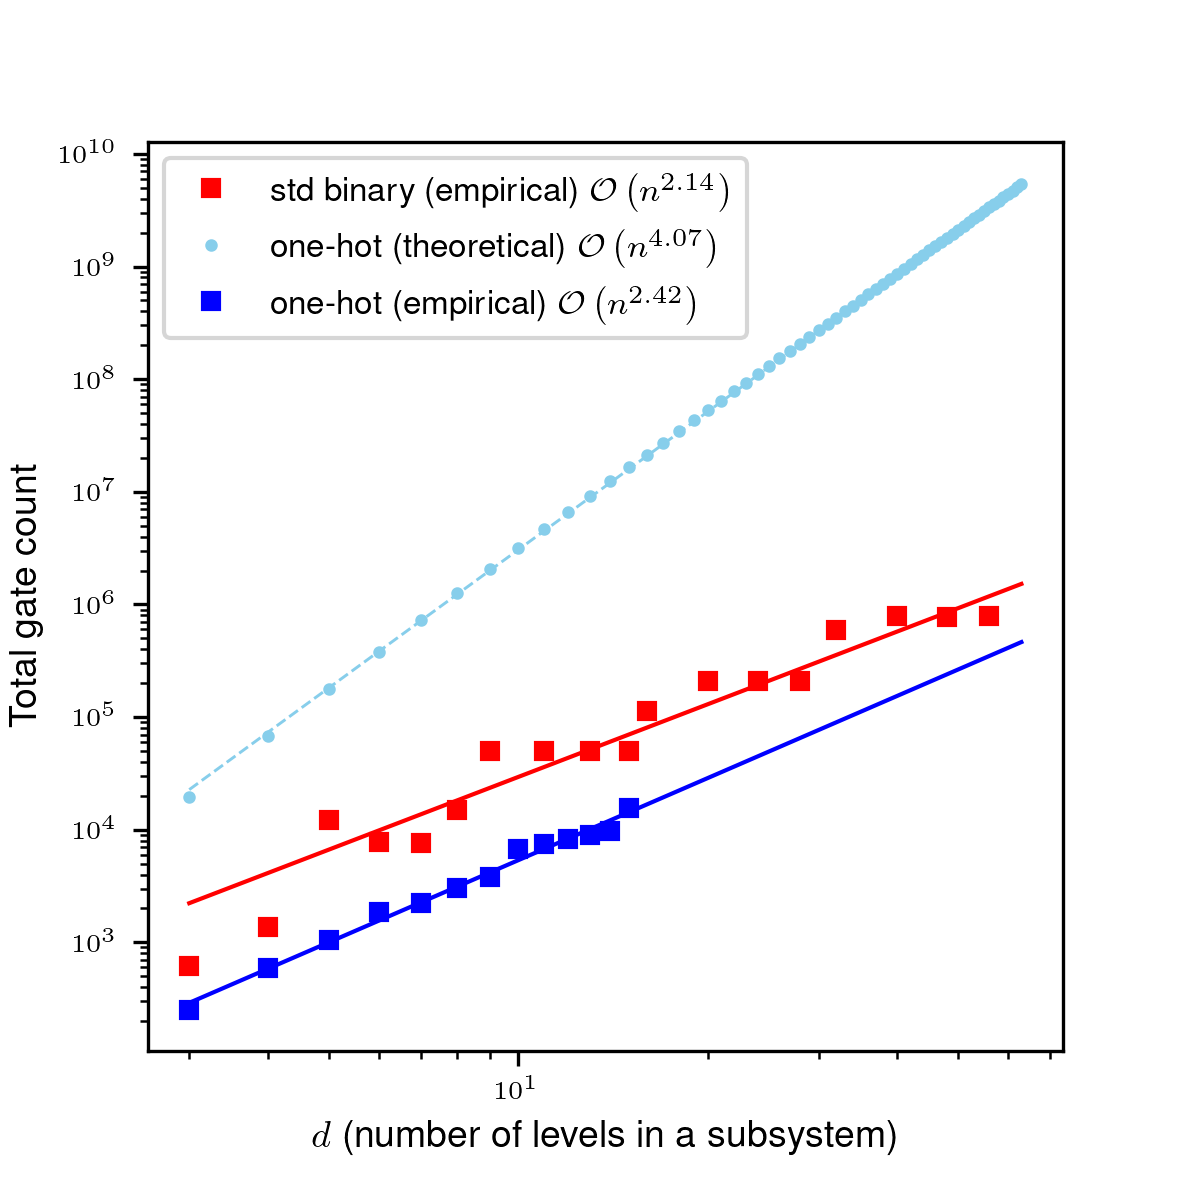
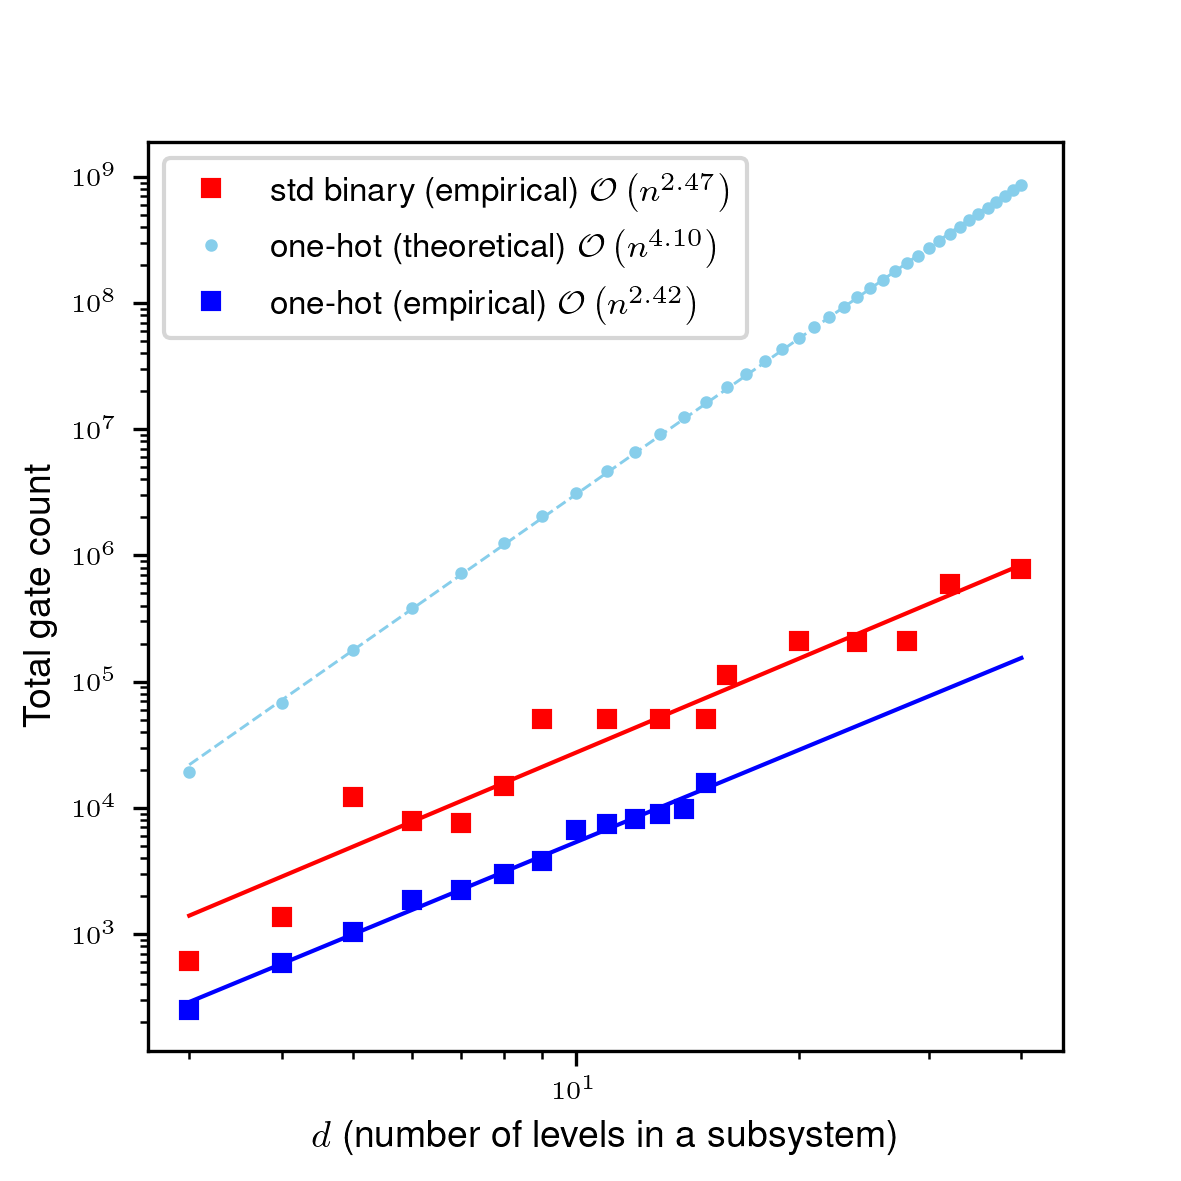
update Fig 4 resource analysis

diff --git a/plot_real_space_pentadiagonal.py b/plot_real_space_pentadiagonal.py
@@ -4,7 +4,7 @@ from os.path import join
 from utils import check_and_make_dir
 
 DATA_DIR = "resource_data"
-TASK_DIR = "real_space"
+TASK_DIR = "real_space_new_potential"
 
 CURR_DIR = DATA_DIR
 check_and_make_dir(CURR_DIR)
@@ -91,4 +91,4 @@ plt.xlabel(r"$d$" + " (number of levels in a subsystem)", fontsize=LABEL_FONT)
 plt.xticks(fontsize=TICK_FONT)
 plt.yticks(fontsize=TICK_FONT)
 # plt.show()
-plt.savefig('real_space_resource.png', dpi=300)
+plt.savefig('real_space_resource_pentadiagonal.png', dpi=300)
